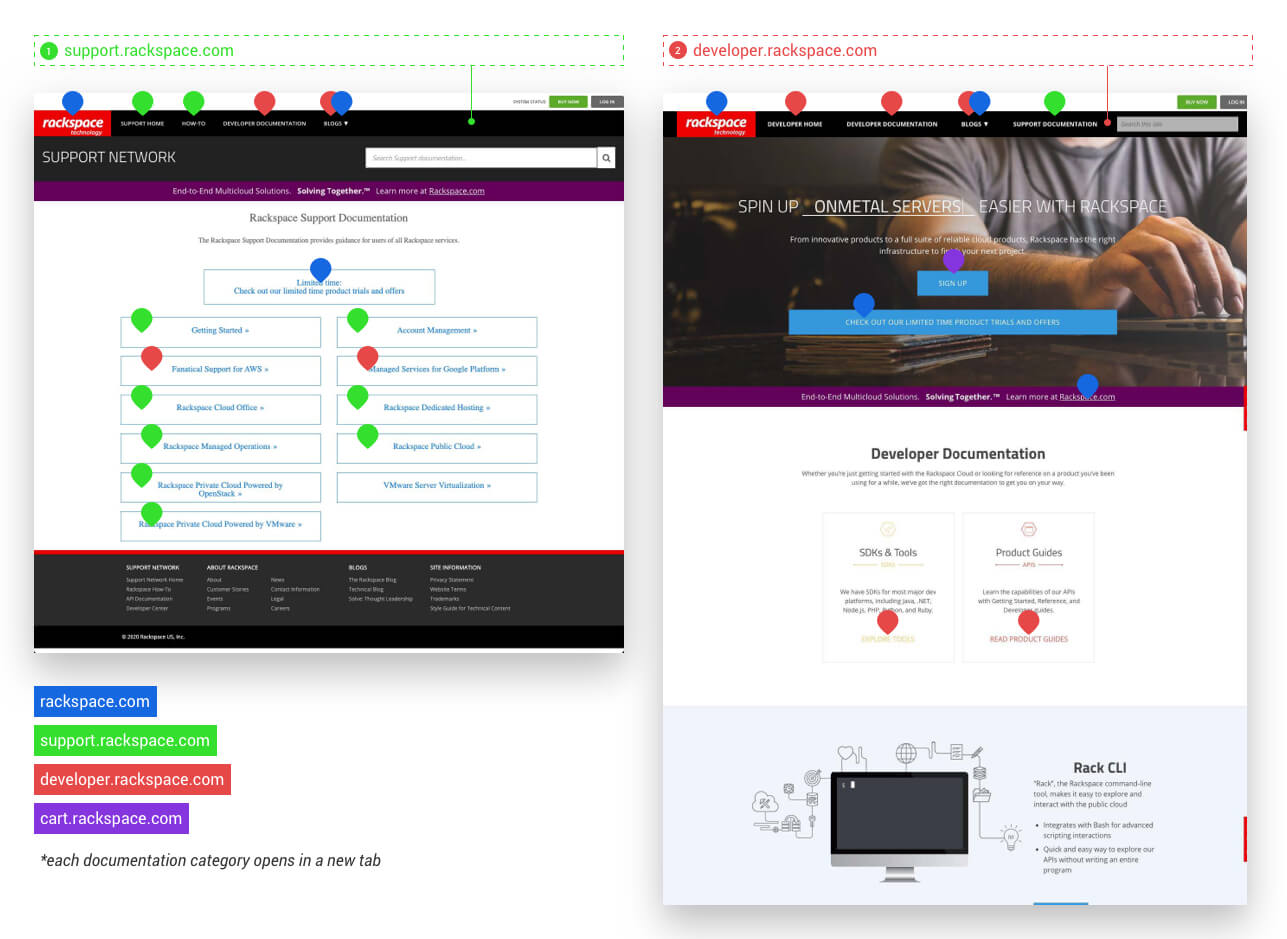
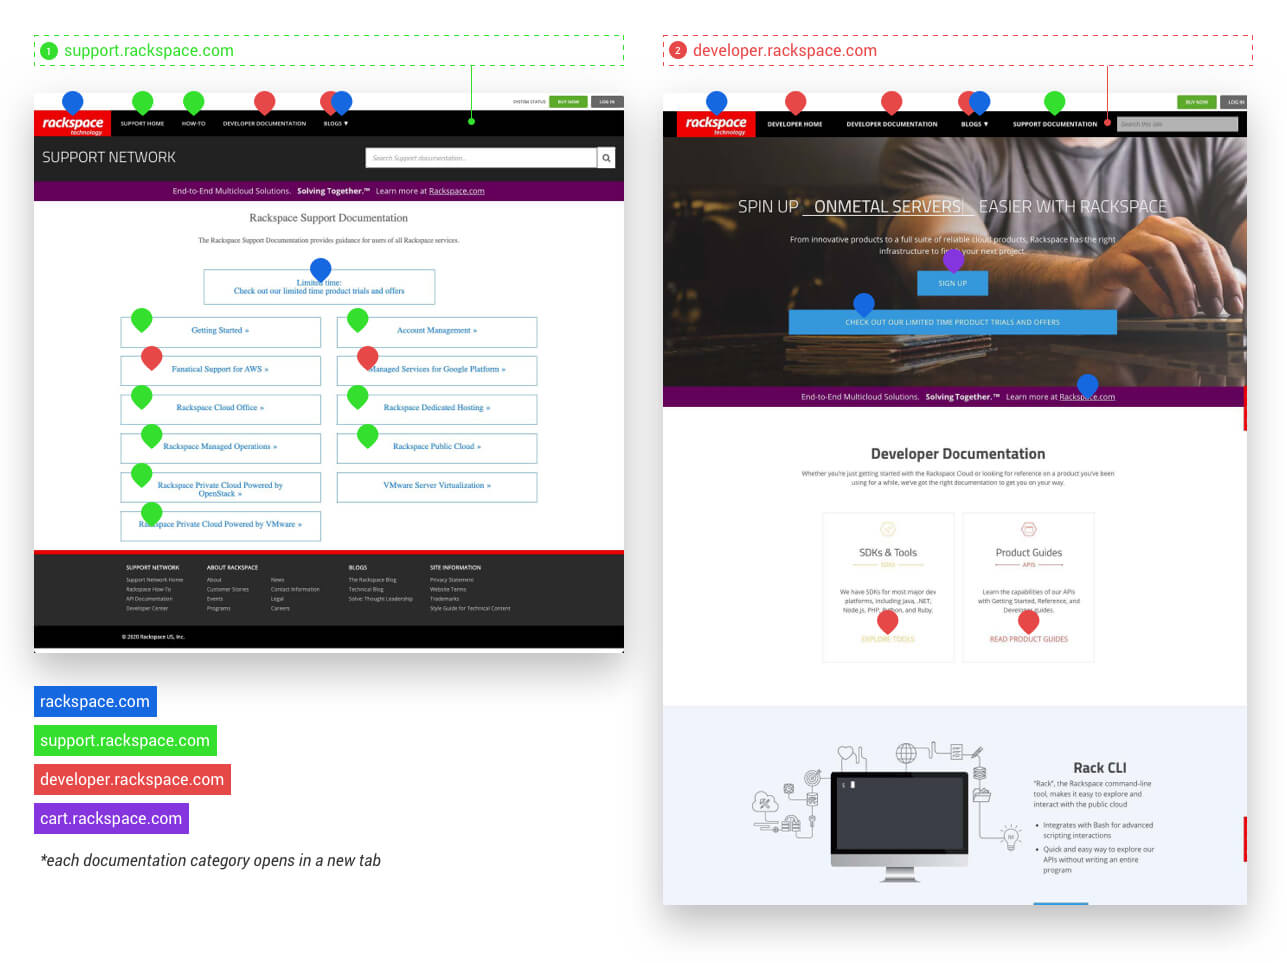
:recycle: Updated images to fix shadow issues

diff --git a/supportdocs.html b/supportdocs.html
@@ -285,7 +285,7 @@
       </p>
 
       <figure>
-        <img src="img/RXT-Support-Mockups-1.jpg" alt="..." />
+        <img src="img/RXT-Support-Mockups-1-ALT.jpg" alt="..." />
         <figcaption>...</figcaption>
       </figure>
 
